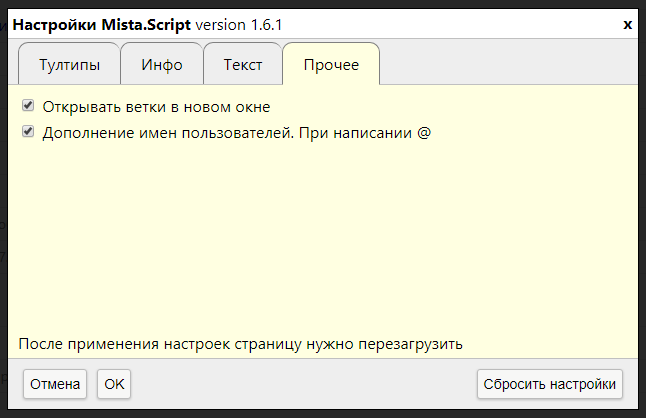
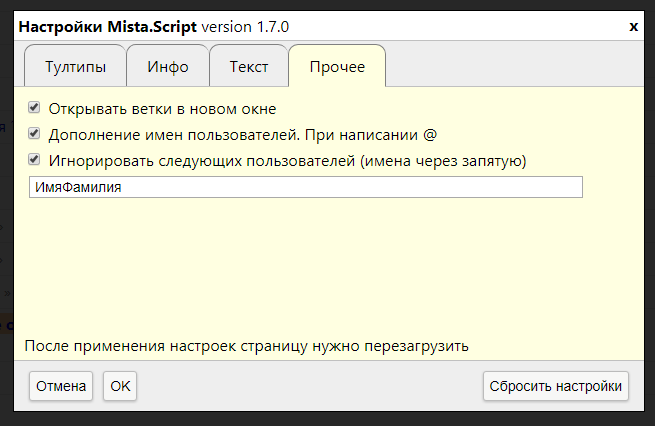
ignore-list

Changed region(s): [[0.0, 0.0, 0.9907, 0.9952]]

diff --git a/user.js b/user.js
@@ -1,7 +1,7 @@
 // ==UserScript==
 // @name         mista.ru
 // @namespace    http://tampermonkey.net/
-// @version      1.6.1
+// @version      1.7.0
 // @description  Make mista great again!
 // @author       acsent
 // @match        *.mista.ru/*
@@ -13,7 +13,7 @@
 // @updateURL    https://cdn.jsdelivr.net/gh/a-sitnikov/mista.js@latest/user.js
 // ==/UserScript==
 
-const mistaScriptVersion = '1.6.1';
+const mistaScriptVersion = '1.7.0';
 let tooltipsOrder = [];
 let tooltipsMap = {};
 let currentTopicId = 0;
@@ -47,7 +47,9 @@ let options = new Map([
     ["add-name-style",        {default: '{"font-size": "100%"}', type: "input",    label: "Стиль кнопки", width: "350", suffix: "любые свойства css"}],
     ["user-autocomplete",     {default: "true",        type: "checkbox", label: "Дополнение имен пользователей. При написании @"}],
     ["fix-broken-links",      {default: "true",        type: "checkbox", label: "Чинить поломанные ссылки (с русскими символами)"}],
-    ["scroll-tooltip-on-main", {default: "true",        type: "checkbox", label: "При скролле этотого тултипа переходить к след/пред сообщениям"}]
+    ["scroll-tooltip-on-main", {default: "true",       type: "checkbox", label: "При скролле этотого тултипа переходить к след/пред сообщениям"}],
+    ["use-ignore",            {default: "false",       type: "checkbox", label: "Игнорировать следующих пользователей (имена через запятую)"}],
+    ["ignore-list",           {default: "",            type: "input",    label: "", width: "550"}]
 ]);
 
 let formOptions = [
@@ -92,7 +94,9 @@ let formOptions = [
         name: 'Прочее',
         rows: [
             ['open-in-new_window'],
-            ['user-autocomplete']
+            ['user-autocomplete'],
+            ['use-ignore'],
+            ['ignore-list']
         ]
     }
 ];
@@ -924,6 +928,16 @@ function addUserAutocomplete(){
     });
 }
 
+function hideIgnored() {
+
+    if (options.get('use-ignore').value !== 'true') return;
+
+    let userIds = options.get('ignore-list').value.split(',').map((val) => val.trim());
+    let selector = "[data-user_name='" + userIds.join("'],[data-user_name='") + "']";
+    $(selector, 'tr[id^=message]').parent().parent().hide();
+
+}
+
 (function() {
 
     let currentUrl = window.location.href;
@@ -976,7 +990,7 @@ function addUserAutocomplete(){
              border-top: solid 1px grey;
 		 	 padding: 10px 20px;
         }
-		.tab:first-child{
+        .tab:first-child{
              margin-left: 10px;
 		}
 		.tab:last-child{
@@ -984,7 +998,7 @@ function addUserAutocomplete(){
 		}
         .tab.active{
              background-color: #FFFFE1;
-             border-bottom:  solid 1px #FFFFE1;
+             border-bottom:  solid 1px transparent;
              margin-bottom: -1px;
 		}
         .tab-cont > div{
@@ -1060,11 +1074,13 @@ function addUserAutocomplete(){
                 $( deferred.resolve );
             })
         ).done(function(){
+            hideIgnored();
             addUserAutocomplete();
             run();
         });
 
     } else {
+        hideIgnored();
         addUserAutocomplete();
         run();
     }
